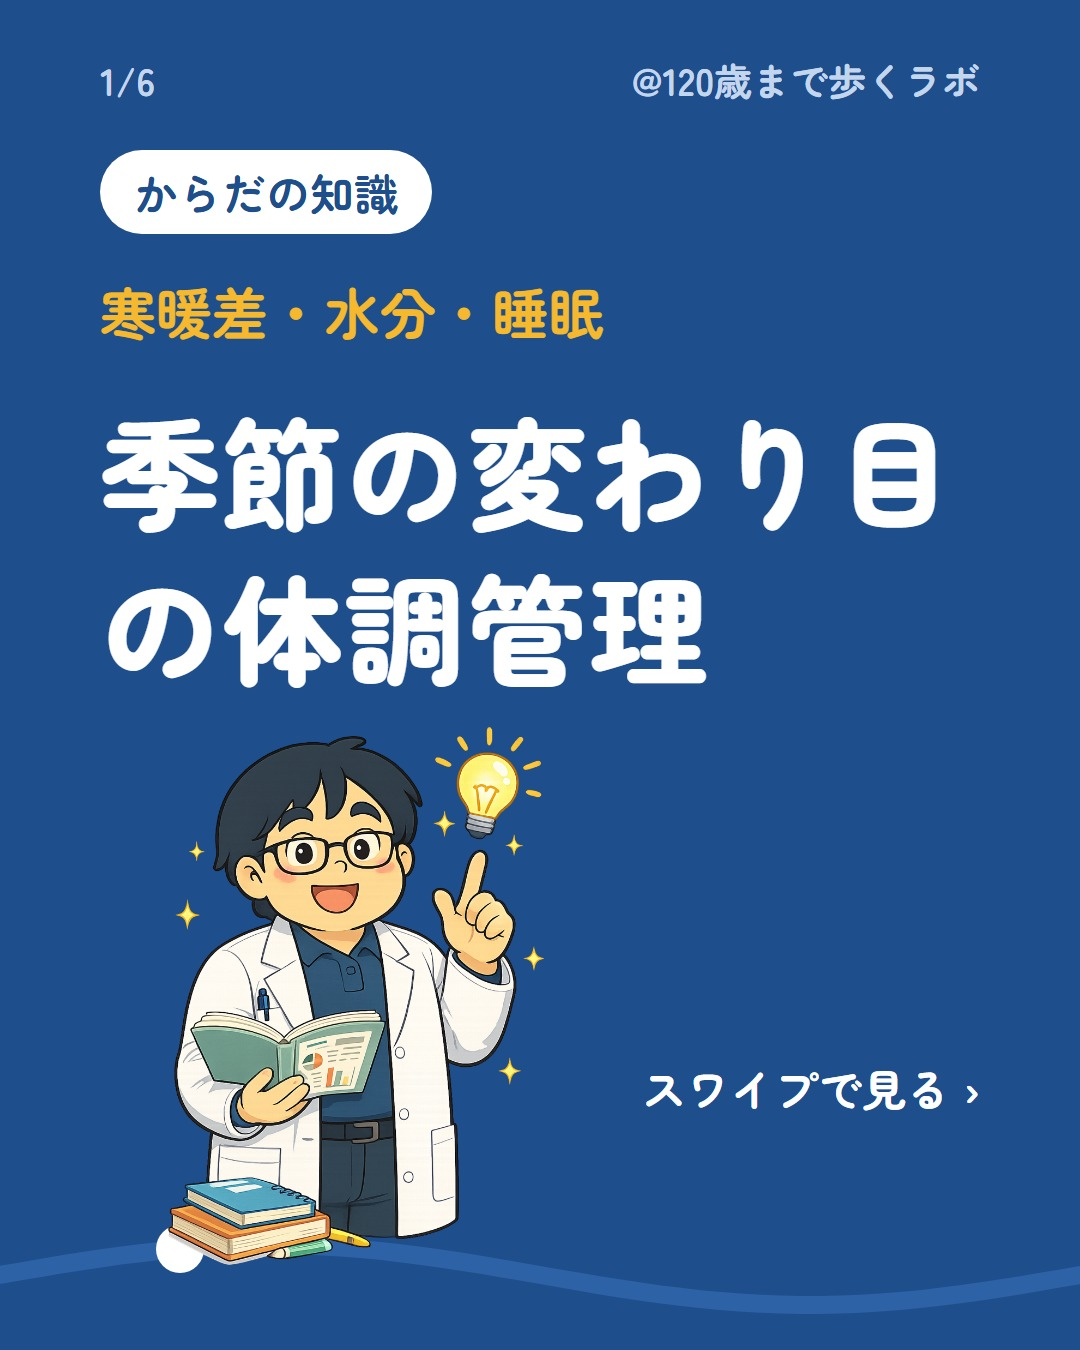
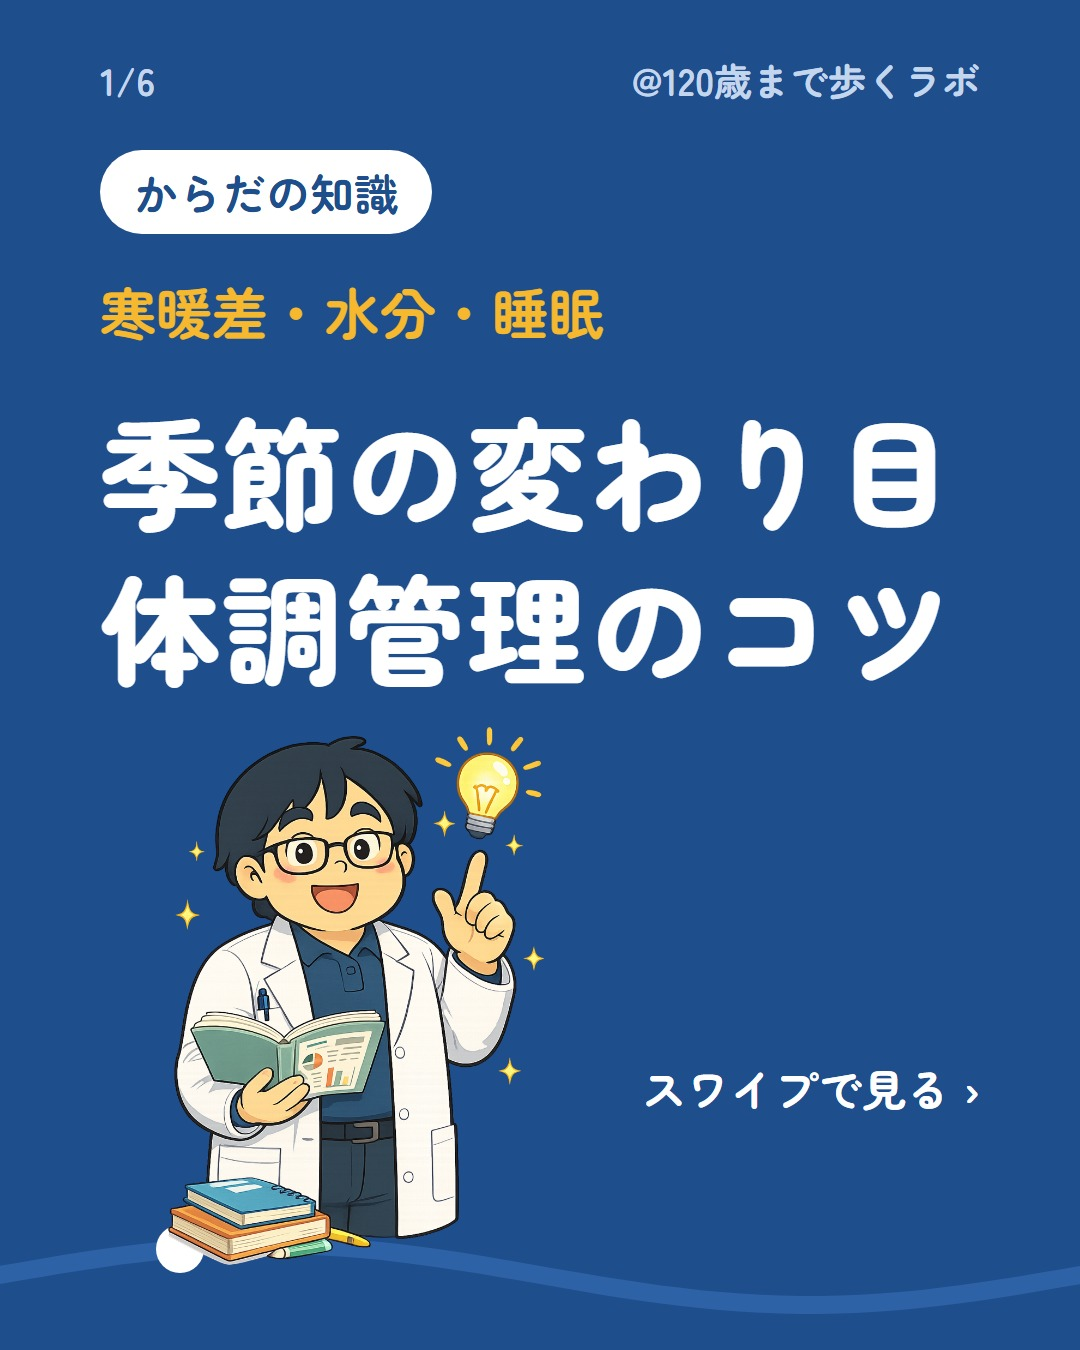
見出し・表紙タイトルの2行目が助詞で始まる3か所を修正、CLAUDE.md に目安を追加

Changed region(s): [[0.0917, 0.4044, 0.8861, 0.5289]]

diff --git a/CLAUDE.md b/CLAUDE.md
@@ -40,6 +40,7 @@
 - 表紙タイトル：1行7文字以内×2行（改行は \n）
 - 表紙サブタイトル：20文字以内
 - ポイント見出し：1行8文字以内×2行
+- 表紙タイトルと見出しは、2行目を助詞（の・に・が・を など）で始めない
 - ポイント本文：50文字以内（\n は文字数に数えない）
   - 画像の1行は約14文字（画像ありのスライドは約17文字）
   - 文の区切りで \n を入れ、\n で区切った1行も14文字以内にする（「しょ／う。」のような折り返しを防ぐ）
